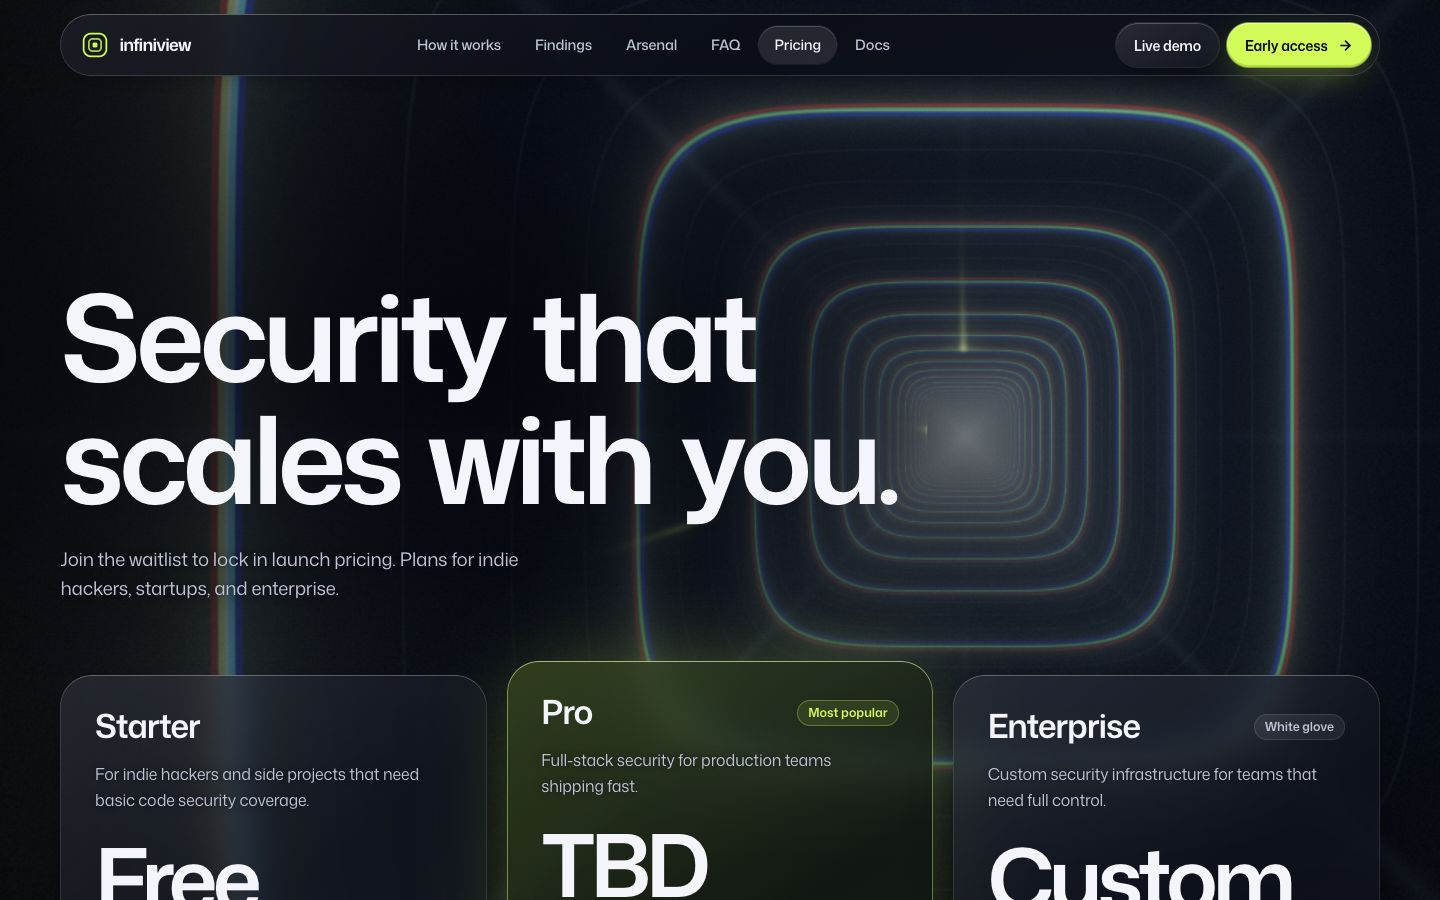
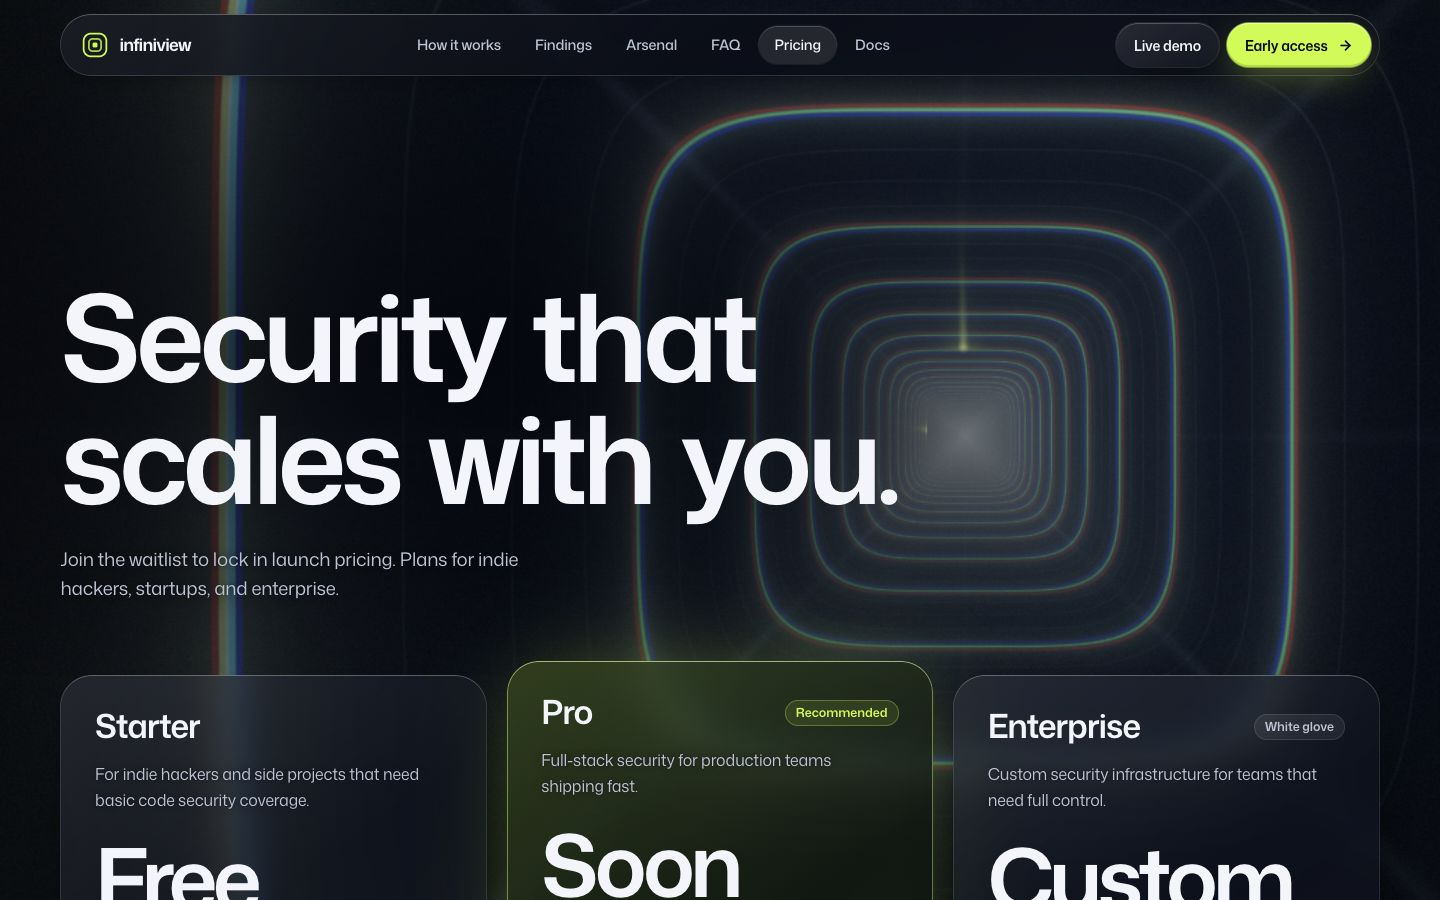
Pricing wording: "Recommended", "Soon", no promised reply time
- Pro badge "Most popular" -> "Recommended" (the product has no customers to
  be popular with)
- Pro price "TBD" -> "Soon"
- FAQ: "gets a human, usually same day" -> "gets a human"
- README and the pricing screenshot updated, stated bundle weights refreshed

Changed region(s): [[0.375, 0.9022, 0.5312, 1.0], [0.5312, 0.7778, 0.625, 0.8089]]

diff --git a/src/app/(site)/pricing/page.tsx b/src/app/(site)/pricing/page.tsx
@@ -49,9 +49,9 @@ const PLANS = [
   {
     id: "pro",
     name: "Pro",
-    badge: "Most popular",
+    badge: "Recommended",
     desc: "Full-stack security for production teams shipping fast.",
-    priceLabel: "TBD",
+    priceLabel: "Soon",
     scans: "Early access",
     highlighted: true,
     cta: "Join waitlist",

diff --git a/src/components/site/faq.tsx b/src/components/site/faq.tsx
@@ -39,7 +39,7 @@ export function Faq({
             <a className="link" href="mailto:hello@infiniflop.com">
               hello@infiniflop.com
             </a>{" "}
-            gets a human, usually same day.
+            gets a human.
           </p>
         </div>
 

diff --git a/docs/redesign/README.md b/docs/redesign/README.md
@@ -97,7 +97,7 @@ The details at the edge of the viewport are part of the design, not leftovers:
 
 ### Weight (production build, gzip)
 
-JS ≈ 263 KB · CSS ≈ 22 KB · fonts ≈ 126 KB (Mona Sans 96 KB, JetBrains Mono 31 KB) · HTML ≈ 18 KB.
+JS ≈ 269 KB · CSS ≈ 24 KB · fonts ≈ 126 KB (Mona Sans 96 KB, JetBrains Mono 31 KB) · HTML ≈ 18 KB.
 
 ## Source register
 
@@ -133,8 +133,8 @@ Not done / worth knowing:
 - `/privacy` and `/terms` are linked as before but do not exist in this repo (nor on infiniview.dev today): the footer links 404 until those pages exist. Their content is the owner's to write, so none was invented.
 - **Joining needs JavaScript.** The API accepts JSON only (a deliberate choice that refuses cross-site form posts), so a script-less submit gets that API's JSON 4xx rather than a confirmation. The form is a POST to the API so an early native submit never puts the address in the URL.
 - **The opening choreography needs JavaScript**: until the motion layer takes over the headline, form and header wait (opacity only; a 3 s failsafe shows everything, and then the entrance simply does not play). Largest Contentful Paint is the hero headline: about 1.3 s unthrottled and about 3.2 s at 4x CPU throttling in software GL.
-- Pricing copy ("Most popular", "White glove", "TBD") and "gets a human, usually same day" are the previous site's own wording, carried over unchanged apart from capitalisation.
-- Pricing figures remain "Free / TBD / Custom", as before.
+- Three wording changes on request: the Pro badge reads "Recommended" (not a popularity claim), the Pro price reads "Soon" (not "TBD"), and the FAQ no longer promises a reply time. "White glove" and the plan features are the previous site's own wording.
+- Pricing figures are still undecided: "Free / Soon / Custom", with "Finalized before launch" noted on the page.
 
 ## Screenshots
 
